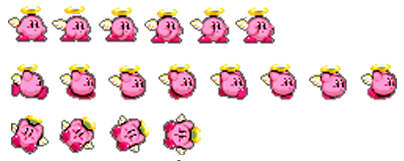
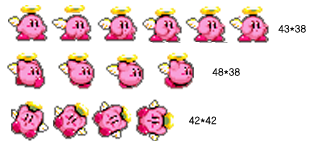
Add & Fix character_object

diff --git a/character_object.py b/character_object.py
@@ -11,16 +11,60 @@ characters ={
         "speed" : 4,
         "cooldown_time" : 0,
         "hording_time" : 0,
-    },
-    'sonic' : {
+    },'sonic' : {
         "size" : [50, 70],
         0 : {"frame" : 4, "bottom" : 174, "width" : 30, "height" : 40},     #idle
         1 : {"frame" : 8, "bottom" : 126, "width" : 42, "height" : 38},      #run
         2 : {"frame" : 2, "bottom" : 71, "width" : 40, "height" : 45},       #sturn
         3 : {"frame" : 5, "bottom" : 37, "width" : 34, "height" : 34},
-        "speed" : 1,
+        "speed" : 6,
         "cooldown_time" : 10,
         "hording_time" : 3,
+    },'hulk' : {
+        "size" : [50, 70],
+        0 : {"frame" : 3, "bottom" : 200, "width" : 60, "height" : 90},     #idle
+        1 : {"frame" : 6, "bottom" : 100, "width" : 90, "height" : 90},      #run
+        2 : {"frame" : 5, "bottom" : 0, "width" : 100, "height" : 90},       #sturn
+        3 : None,
+        "speed" : 2,
+        "cooldown_time" : 0,
+        "hording_time" : 0,
+    },'kirky' : {
+        "size" : [50, 70],
+        0 : {"frame" : 6, "bottom" : 100, "width" : 43, "height" : 38},     #idle
+        1 : {"frame" : 4, "bottom" : 52, "width" : 48, "height" : 38},      #run
+        2 : {"frame" : 4, "bottom" : 0, "width" : 42, "height" : 42},       #sturn
+        3 : None,
+        "speed" : 2,
+        "cooldown_time" : 0,
+        "hording_time" : 0,
+    },'turtle' : {
+        "size" : [50, 70],
+        0 : {"frame" : 5, "bottom" : 56, "width" : 70, "height" : 47},     #idle
+        1 : {"frame" : 6, "bottom" : 0, "width" : 70, "height" : 46},      #run
+        2 : None,
+        3 : None,
+        "speed" : 2,
+        "cooldown_time" : 0,
+        "hording_time" : 0,
+    },'ghost' : {
+        "size" : [50, 70],
+        0 : {"frame" : 8, "bottom" : 62, "width" : 82, "height" : 62},     #idle
+        1 : {"frame" : 6, "bottom" : 0, "width" : 82, "height" : 52},      #run
+        2 : None,
+        3 : None,
+        "speed" : 6,
+        "cooldown_time" : 0,
+        "hording_time" : 0,
+    },'pikachu' : {
+        "size" : [50, 70],
+        0 : {"frame" : 4, "bottom" : 101, "width" : 60, "height" : 44},     #idle
+        1 : {"frame" : 4, "bottom" : 59, "width" : 60, "height" : 32},      #run
+        2 : {"frame" : 3, "bottom" : 0, "width" : 60, "height" : 49},      #run
+        3 : None,
+        "speed" : 4,
+        "cooldown_time" : 0,
+        "hording_time" : 0,
     }
 }
 
@@ -31,8 +75,9 @@ class Character:
 
         self.x = x
         self.y = y
-        self.speed = 0
-        self.dir = 0
+        self.speed = self.character['speed']
+        self.dirX = 0
+        self.dirY = 0
         self.state = 0
 
         self.frame = 0
@@ -53,21 +98,21 @@ class Character:
                 self.character[self.state]['height'],
             )
 
-    def draw(self):
+    def draw_character(self):
         self.set_animation()
-        self.image.clip_draw(8+self.frameSize[0]*self.frame, self.frameSize[1], self.frameSize[2], self.frameSize[3], self.x, self.y, 50, 70)
+        self.image.clip_draw(8+self.frameSize[0]*self.frame, self.frameSize[1], self.frameSize[2], self.frameSize[3], self.x, self.y, 50, 80)
 
     def update(self):
         self.frame = (self.frame + 1) % self.frameNum
 
         self.skill(time.time())
 
-        self.x += self.speed
-        self.y += self.dir * self.speed
+        self.x += (self.dirX) * self.speed
+        self.y += (self.dirY) * self.speed
         if self.y >= 520:
-            self.y -= self.speed
-        elif self.y <= 80:
-            self.y += self.speed
+            self.y = 519
+        elif self.y <= 90:
+            self.y = 91
 
     def skill(self ,eTime):
         if eTime - self.active_skill_time >= self.character['cooldown_time']:
@@ -78,13 +123,5 @@ class Character:
             if eTime - self.active_skill_time <= self.character['hording_time']:
                 self.speed = 5
                 self.state = 3
-        else: # 스킬 미 사용 중
-            self.speed = self.character['speed']
-            self.state = 1
-
-    def move(self, direction):
-        self.state = 1
-        self.speed = self.character['speed']
-        self.dir += direction
         
-    
+        

diff --git a/play_state.py b/play_state.py
@@ -5,13 +5,16 @@ import title_state
 from pico2d import *
 from character_object import *
 
+import random
+
 player = None
 background = None
 running = None
 
 def enter():
     global player, background, running
-    player = Character('sonic', 50, 90)
+    #print(type(random.choice(characters.keys())))
+    player = Character('Patrick_Star', 30, 90)
     background = Background()
     running = True
 
@@ -26,7 +29,7 @@ def update():
 def draw():
     clear_canvas()
     background.draw()
-    player.draw()
+    player.draw_character()
     update_canvas()
 
 def handle_events():
@@ -36,19 +39,29 @@ def handle_events():
             elif event.type == SDL_KEYDOWN:
                 if event.key == SDLK_ESCAPE:
                     game_framework.change_state(title_state)
+                elif event.key == SDLK_RIGHT:
+                    player.dirX += 1
+                    player.state = 1
                 elif event.key == SDLK_UP:
-                    player.move(1)
+                    player.dirY += 1
+                    player.state = 1
                 elif event.key == SDLK_DOWN:
-                    player.move(-1)
+                    player.dirY -= 1
+                    player.state = 1
                 elif event.key == SDLK_r:
                     if player.available_skill:
                         player.available_skill = False
                         player.active_skill_time = time.time()
             elif event.type == SDL_KEYUP:
                 if event.key == SDLK_UP:
-                    player.dir -= 1
+                    player.dirY -= 1
+                    player.state = 0
                 elif event.key == SDLK_DOWN:
-                    player.dir += 1
+                    player.state = 0
+                    player.dirY += 1
+                elif event.key == SDLK_RIGHT:
+                    player.state = 0
+                    player.dirX -= 1
                 elif event.key == SDLK_r:
                     pass
         delay(0.05)

diff --git a/mygame.py b/mygame.py
@@ -1,6 +1,7 @@
 import pico2d
 import game_framework
 import logo_state
+import play_state
 
 start_state = logo_state
 
